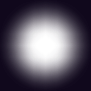
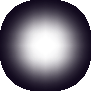
add well-defined minimap movement

diff --git a/game/src/utils/RectPath.cpp b/game/src/utils/RectPath.cpp
@@ -1,16 +1,14 @@
 
 #include "fornani/utils/RectPath.hpp"
-
-#include <ccmath/math/misc/lerp.hpp>
-
 #include "fornani/setup/ResourceFinder.hpp"
 
+#include <ccmath/math/misc/lerp.hpp>
 #include <djson/json.hpp>
 #include <libassert/assert.hpp>
 
 namespace fornani::util {
 
-RectPath::RectPath(data::ResourceFinder& finder, std::filesystem::path source, std::string_view type, int interpolation) : m_scale{2.f}, m_interpolation{interpolation} {
+RectPath::RectPath(data::ResourceFinder& finder, std::filesystem::path source, std::string_view type, int interpolation, util::InterpolationType it) : m_scale{2.f}, m_interpolation{interpolation}, m_interpolation_type{it} {
 	auto in_data = dj::Json::from_file((finder.resource_path() + source.string()).c_str());
 	assert(!in_data.is_null());
 	for (auto& path : in_data[type].array_view()) {
@@ -29,29 +27,29 @@ void RectPath::update() {
 	auto end{static_cast<int>(m_sections.at(m_current_section).path.size()) - 1};
 	auto target_position{m_sections.at(m_current_section).path.at(m_current_step).position};
 	auto target_dimensions{m_sections.at(m_current_section).path.at(m_current_step).size};
-	auto previous_position{m_sections.at(m_current_section).path.at(std::clamp(m_current_step + (m_reverse ? -1 : -1), 0, end)).position};
-	auto previous_dimensions{m_sections.at(m_current_section).path.at(std::clamp(m_current_step + (m_reverse ? -1 : -1), 0, end)).size};
-	if (m_current_position == (m_reverse ? previous_position : target_position) && m_current_dimensions == (m_reverse ? previous_dimensions : target_dimensions)) {
-		if (rev != m_reverse) { rev = m_reverse; }
-		if (m_current_step != (m_reverse ? 0 : end)) { m_interpolation.start(); }
-		m_current_step = std::clamp(m_current_step + (m_reverse ? -1 : 1), 0, end);
+	auto previous_position{m_sections.at(m_current_section).path.at(std::clamp(m_current_step + -1, 0, end)).position};
+	auto previous_dimensions{m_sections.at(m_current_section).path.at(std::clamp(m_current_step + -1, 0, end)).size};
+	if (m_current_position == target_position && m_current_dimensions == target_dimensions) {
+		if (m_current_step != end) { m_interpolation.start(); }
+		m_current_step = std::clamp(m_current_step + 1, 0, end);
 		return;
 	}
 
-	if (m_reverse) {
-		m_current_position.x = ccm::lerp(target_position.x, previous_position.x, m_interpolation.get_inverse_cubic_normalized());
-		m_current_position.y = ccm::lerp(target_position.y, previous_position.y, m_interpolation.get_inverse_cubic_normalized());
-		m_current_dimensions.x = ccm::lerp(target_dimensions.x, previous_dimensions.x, m_interpolation.get_inverse_cubic_normalized());
-		m_current_dimensions.y = ccm::lerp(target_dimensions.y, previous_dimensions.y, m_interpolation.get_inverse_cubic_normalized());
-	} else {
-		m_current_position.x = ccm::lerp(previous_position.x, target_position.x, m_interpolation.get_inverse_cubic_normalized());
-		m_current_position.y = ccm::lerp(previous_position.y, target_position.y, m_interpolation.get_inverse_cubic_normalized());
-		m_current_dimensions.x = ccm::lerp(previous_dimensions.x, target_dimensions.x, m_interpolation.get_inverse_cubic_normalized());
-		m_current_dimensions.y = ccm::lerp(previous_dimensions.y, target_dimensions.y, m_interpolation.get_inverse_cubic_normalized());
+	float interpolation{};
+	switch (m_interpolation_type) {
+	case util::InterpolationType::linear: interpolation = m_interpolation.get_inverse_normalized(); break;
+	case util::InterpolationType::quadratic: interpolation = m_interpolation.get_inverse_quadratic_normalized(); break;
+	case util::InterpolationType::cubic: interpolation = m_interpolation.get_inverse_cubic_normalized(); break;
 	}
+
+	m_current_position.x = ccm::lerp(previous_position.x, target_position.x, interpolation);
+	m_current_position.y = ccm::lerp(previous_position.y, target_position.y, interpolation);
+	m_current_dimensions.x = ccm::lerp(previous_dimensions.x, target_dimensions.x, interpolation);
+	m_current_dimensions.y = ccm::lerp(previous_dimensions.y, target_dimensions.y, interpolation);
 }
 
 void RectPath::set_section(std::string_view to_section) {
+	m_current_step = 0;
 	auto counter{0};
 	for (auto& section : m_sections) {
 		if (section.label == to_section.data()) { m_current_section = counter; }
@@ -62,11 +60,6 @@ void RectPath::set_section(std::string_view to_section) {
 }
 
 void RectPath::reset() { m_current_step = 0; }
-
-void RectPath::set_reverse(bool to) {
-	if (m_reverse != to) { m_interpolation.invert(); }
-	m_reverse = to;
-}
 
 auto RectPath::finished() const -> bool { return m_current_step == m_sections.at(m_current_section).path.size() - 1; }
 

diff --git a/game/src/gui/gizmos/MapGizmo.cpp b/game/src/gui/gizmos/MapGizmo.cpp
@@ -9,7 +9,7 @@ namespace fornani::gui {
 
 MapGizmo::MapGizmo(automa::ServiceProvider& svc, world::Map& map)
 	: Gizmo("Minimap"), m_minimap{std::make_unique<MiniMap>(svc)}, m_sprite{svc.assets.get_texture("map_gizmo")}, m_map_screen(svc, svc.assets.get_texture("map_screen"), {45, 45}, {1, 1}),
-	  m_map_shadow(svc, svc.assets.get_texture("map_shadow"), {45, 45}, {1, 1}), m_path{svc.finder, std::filesystem::path{"/data/gui/console_paths.json"}, "minimap", 256},
+	  m_map_shadow(svc, svc.assets.get_texture("map_shadow"), {45, 45}, {1, 1}), m_path{svc.finder, std::filesystem::path{"/data/gui/console_paths.json"}, "minimap", 32, util::InterpolationType::quadratic},
 	  m_constituents{.gizmo{.top_left{.lookup{{0, 0}, {67, 55}}},
 							.top_right{.lookup{{67, 0}, {63, 55}}, .position{134.f, 0.f}},
 							.bottom_left{.lookup{{13, 55}, {54, 54}}, .position{26.f, 110.f}},
@@ -18,16 +18,18 @@ MapGizmo::MapGizmo(automa::ServiceProvider& svc, world::Map& map)
 	for (auto& id : svc.data.discovered_rooms) { m_minimap->bake(svc, map, id, id == svc.current_room); }
 	m_minimap->center();
 	m_sprite.setScale(svc.constants.texture_scale);
-	m_path.set_section("open");
+	m_path.set_section("close");
 	m_placement = {380.f, -22.f};
 }
 
 void MapGizmo::update(automa::ServiceProvider& svc, [[maybe_unused]] player::Player& player, [[maybe_unused]] world::Map& map, sf::Vector2f position) {
 	Gizmo::update(svc, player, map, position);
-	if (m_state == GizmoState::selected) {
-		m_path.set_reverse(false);
-	} else {
-		m_path.set_reverse(true);
+	if (m_state == GizmoState::selected && m_switched) {
+		m_path.set_section("open");
+		m_switched = false;
+	} else if (m_switched) {
+		m_path.set_section("close");
+		m_switched = false;
 	}
 	m_path.update();
 	m_minimap->update(svc, map, player);
@@ -49,10 +51,14 @@ void MapGizmo::render(automa::ServiceProvider& svc, sf::RenderWindow& win, sf::V
 	m_map_screen.render(win, cam);
 	m_minimap->render(svc, win, cam);
 	m_map_shadow.render(win, cam);
-	m_constituents.gizmo.top_left.render(win, m_sprite, render_position);
-	m_constituents.gizmo.top_right.render(win, m_sprite, render_position);
-	m_constituents.gizmo.bottom_left.render(win, m_sprite, render_position);
-	m_constituents.gizmo.bottom_right.render(win, m_sprite, render_position);
+	m_constituents.gizmo.top_left.position = m_path.get_position();
+	m_constituents.gizmo.top_left.render(win, m_sprite, render_position, sf::Vector2f{66.f, 54.f});
+	m_constituents.gizmo.top_right.position = m_path.get_position() + sf::Vector2f{m_path.get_dimensions().x, 0.f};
+	m_constituents.gizmo.top_right.render(win, m_sprite, render_position, sf::Vector2f{1.f, 54.f});
+	m_constituents.gizmo.bottom_left.position = m_path.get_position() + sf::Vector2f{0.f, m_path.get_dimensions().y};
+	m_constituents.gizmo.bottom_left.render(win, m_sprite, render_position, sf::Vector2f{53.f, 1.f});
+	m_constituents.gizmo.bottom_right.position = m_path.get_position() + m_path.get_dimensions();
+	m_constituents.gizmo.bottom_right.render(win, m_sprite, render_position, sf::Vector2f{1.f, 1.f});
 }
 
 bool MapGizmo::handle_inputs(config::ControllerMap& controller) {

diff --git a/game/src/gui/MiniMap.cpp b/game/src/gui/MiniMap.cpp
@@ -48,9 +48,9 @@ void MiniMap::render(automa::ServiceProvider& svc, sf::RenderWindow& win, sf::Ve
 	port.position.y = m_port_position.y / view.getSize().y - cam.y / view.getSize().y;
 
 	view.setViewport(port);
-	center_position = ((position - view.getCenter()) / ratio).componentWiseDiv(port.size);
-	// render minimap
 	global_ratio = ratio * 0.25f;
+	center_position = position - view.getCenter();
+	// render minimap
 	win.setView(view);
 	// win.draw(background);
 	if (svc.ticker.every_x_frames(10)) { player_box.getFillColor() == svc.styles.colors.pioneer_red ? player_box.setFillColor(svc.styles.colors.ui_white) : player_box.setFillColor(svc.styles.colors.pioneer_red); }
@@ -84,11 +84,14 @@ void MiniMap::render(automa::ServiceProvider& svc, sf::RenderWindow& win, sf::Ve
 	win.draw(cursor.vert);
 	win.draw(cursor.horiz);
 	svc.window->restore_view();
+	ImGui::Text("Position x: %f", position.x);
+	ImGui::Text("Position y: %f", position.y);
 }
 
 void MiniMap::clear_atlas() { atlas.clear(); }
 
 void MiniMap::toggle_scale() {
+	auto prev = scale;
 	scalar.modulate(1);
 	scale = std::pow(2.f, static_cast<float>(scalar.get()) + 2.f);
 	ratio = 32.f / scale;
@@ -97,11 +100,14 @@ void MiniMap::toggle_scale() {
 	texture.portal_box.setSize({ratio, ratio});
 	texture.save_box.setSize({ratio, ratio});
 	texture.breakable_box.setSize({ratio, ratio});
-	if (scale == 4.f) {
-		position += center_position * 6.f;
-	} else {
-		position -= center_position * ratio;
-	}
+	NANI_LOG_DEBUG(m_logger, ">>>");
+	NANI_LOG_DEBUG(m_logger, "Scale: {}", scale);
+	NANI_LOG_DEBUG(m_logger, "Ratio: {}", ratio);
+	NANI_LOG_DEBUG(m_logger, "Prev: {}", prev);
+	NANI_LOG_DEBUG(m_logger, "Position: [{}, {}]", position.x, position.y);
+	position -= center_position;
+	NANI_LOG_DEBUG(m_logger, "After Position: [{}, {}]", position.x, position.y);
+	NANI_LOG_DEBUG(m_logger, ">>>");
 }
 
 void MiniMap::move(sf::Vector2<float> direction) {

diff --git a/game/include/fornani/utils/RectPath.hpp b/game/include/fornani/utils/RectPath.hpp
@@ -1,7 +1,9 @@
 
 #pragma once
 
+#include "fornani/io/Logger.hpp"
 #include "fornani/utils/Cooldown.hpp"
+#include "fornani/utils/Math.hpp"
 
 #include <SFML/Graphics.hpp>
 
@@ -20,11 +22,10 @@ struct PathSection {
 
 class RectPath {
   public:
-	RectPath(data::ResourceFinder& finder, std::filesystem::path source, std::string_view type, int interpolation = 64);
+	RectPath(data::ResourceFinder& finder, std::filesystem::path source, std::string_view type, int interpolation = 64, util::InterpolationType it = InterpolationType::cubic);
 	void update();
 	void set_section(std::string_view to_section);
 	void reset();
-	void set_reverse(bool to);
 	[[nodiscard]] auto get_position() const -> sf::Vector2f { return m_current_position; }
 	[[nodiscard]] auto get_dimensions() const -> sf::Vector2f { return m_current_dimensions; }
 	[[nodiscard]] auto get_local_center() const -> sf::Vector2f { return m_current_dimensions * 0.5f; }
@@ -36,10 +37,11 @@ class RectPath {
 	int m_current_section{};
 	int m_current_step{};
 	float m_scale{};
-	bool m_reverse{};
 	sf::Vector2<float> m_current_position{};
 	sf::Vector2<float> m_current_dimensions{};
 	util::Cooldown m_interpolation;
+	util::InterpolationType m_interpolation_type{};
+	io::Logger m_logger{"RectPath"};
 };
 
 } // namespace fornani::util

diff --git a/game/include/fornani/gui/Gizmo.hpp b/game/include/fornani/gui/Gizmo.hpp
@@ -32,7 +32,7 @@ enum class GizmoState { neutral, hovered, selected };
 struct Constituent {
 	sf::IntRect lookup{};
 	sf::Vector2f position{};
-	void render(sf::RenderWindow& win, sf::Sprite& sprite, sf::Vector2f cam) const;
+	void render(sf::RenderWindow& win, sf::Sprite& sprite, sf::Vector2f cam, sf::Vector2f origin) const;
 };
 
 class Gizmo {
@@ -42,10 +42,11 @@ class Gizmo {
 	virtual void update(automa::ServiceProvider& svc, [[maybe_unused]] player::Player& player, [[maybe_unused]] world::Map& map, sf::Vector2f position);
 	virtual void render(automa::ServiceProvider& svc, sf::RenderWindow& win, sf::Vector2f cam);
 	virtual bool handle_inputs(config::ControllerMap& controller);
-	void select() { m_state = GizmoState::selected; }
-	void deselect() { m_state = GizmoState::hovered; }
+	void select();
+	void deselect();
 
   protected:
+	bool m_switched{};
 	std::string m_label{};
 	GizmoState m_state{};
 	// the actual position of the gizmo, will generally target m_placement

diff --git a/game/src/utils/NineSlice.cpp b/game/src/utils/NineSlice.cpp
@@ -3,7 +3,7 @@
 
 namespace fornani::util {
 
-NineSlice::NineSlice(automa::ServiceProvider& svc, sf::Texture& tex, sf::Vector2i corner, sf::Vector2i edge) : m_sprite{tex}, m_corner_dimensions{corner}, m_edge_dimensions{edge}, m_native_scale{svc.constants.texture_scale} {}
+NineSlice::NineSlice(automa::ServiceProvider& svc, sf::Texture const& tex, sf::Vector2i corner, sf::Vector2i edge) : m_sprite{tex}, m_corner_dimensions{corner}, m_edge_dimensions{edge}, m_native_scale{svc.constants.texture_scale} {}
 
 void NineSlice::render(sf::RenderWindow& win, sf::Vector2f cam) {
 	auto half_edge{m_dimensions * 0.5f};

diff --git a/game/src/gui/Gizmo.cpp b/game/src/gui/Gizmo.cpp
@@ -20,7 +20,18 @@ bool Gizmo::handle_inputs(config::ControllerMap& controller) {
 	return true;
 }
 
-void Constituent::render(sf::RenderWindow& win, sf::Sprite& sprite, sf::Vector2f cam) const {
+void Gizmo::select() {
+	m_state = GizmoState::selected;
+	m_switched = true;
+}
+
+void Gizmo::deselect() {
+	m_state = GizmoState::hovered;
+	m_switched = true;
+}
+
+void Constituent::render(sf::RenderWindow& win, sf::Sprite& sprite, sf::Vector2f cam, sf::Vector2f origin) const {
+	sprite.setOrigin(origin);
 	sprite.setPosition(position - cam);
 	sprite.setTextureRect(lookup);
 	win.draw(sprite);

diff --git a/game/include/fornani/utils/NineSlice.hpp b/game/include/fornani/utils/NineSlice.hpp
@@ -12,7 +12,7 @@ namespace fornani::util {
 
 class NineSlice {
   public:
-	NineSlice(automa::ServiceProvider& svc, sf::Texture& tex, sf::Vector2i corner, sf::Vector2i edge);
+	NineSlice(automa::ServiceProvider& svc, sf::Texture const& tex, sf::Vector2i corner, sf::Vector2i edge);
 	void render(sf::RenderWindow& win, sf::Vector2f cam = {});
 	void target_position(sf::Vector2f to_position, float strength = 0.001f) { m_steering.target(m_physics, to_position, strength); }
 	void set_position(sf::Vector2f to_position) { m_physics.position = to_position; }

diff --git a/game/include/fornani/gui/MiniMap.hpp b/game/include/fornani/gui/MiniMap.hpp
@@ -4,6 +4,7 @@
 #include "Console.hpp"
 #include "Selector.hpp"
 #include "fornani/graphics/MapTexture.hpp"
+#include "fornani/io/Logger.hpp"
 #include "fornani/utils/Circuit.hpp"
 #include "fornani/world/Map.hpp"
 
@@ -62,6 +63,7 @@ class MiniMap {
 	sf::Color background_color{};
 	std::vector<std::unique_ptr<MapTexture>> atlas{};
 	util::Circuit scalar{3};
+	io::Logger m_logger{"MiniMap"};
 };
 
 } // namespace fornani::gui

diff --git a/game/src/core/AssetManager.cpp b/game/src/core/AssetManager.cpp
@@ -472,6 +472,6 @@ sf::Texture& AssetManager::get_scenery(int style) {
 	return scenery_lookup.at(style);
 }
 
-sf::Texture& AssetManager::get_texture(std::string const& label) { return m_textures.contains(label) ? m_textures.at(label) : t_null; }
+sf::Texture const& AssetManager::get_texture(std::string const& label) { return m_textures.contains(label) ? m_textures.at(label) : t_null; }
 
 } // namespace fornani::asset

diff --git a/game/include/fornani/utils/Math.hpp b/game/include/fornani/utils/Math.hpp
@@ -16,6 +16,8 @@ namespace fornani::util {
 
 constexpr auto f_pi{static_cast<float>(std::numbers::pi)};
 
+enum class InterpolationType { linear, quadratic, cubic };
+
 inline float magnitude(sf::Vector2<float> vec) { return ccm::sqrt((vec.x * vec.x) + (vec.y * vec.y)); }
 inline sf::Vector2<float> unit(sf::Vector2<float> vec) {
 	auto const denominator = ccm::sqrt((vec.x * vec.x) + (vec.y * vec.y));

diff --git a/game/include/fornani/core/AssetManager.hpp b/game/include/fornani/core/AssetManager.hpp
@@ -17,7 +17,7 @@ class AssetManager {
 	sf::Texture& get_background(int id);
 	sf::Texture& get_scenery(int style);
 
-	sf::Texture& get_texture(std::string const& label);
+	sf::Texture const& get_texture(std::string const& label);
 
 	// TODO: Dear god we need to clean this up...
 	// working on it :)
